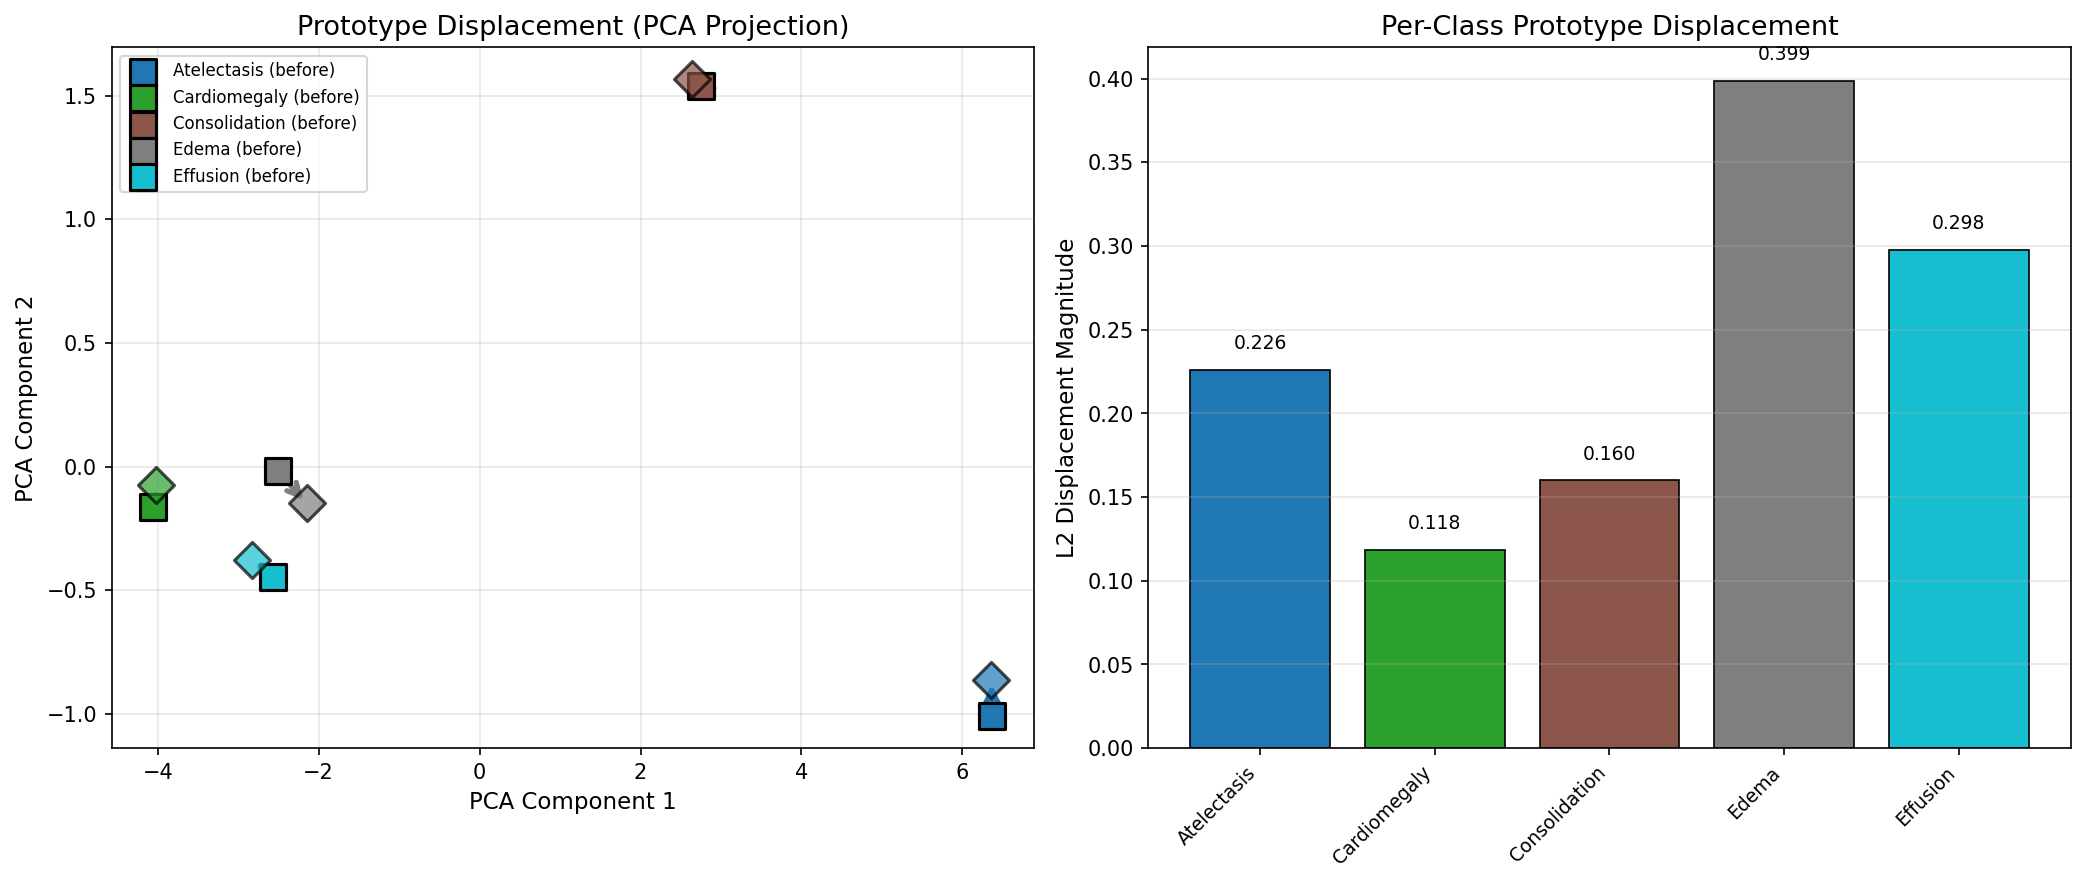
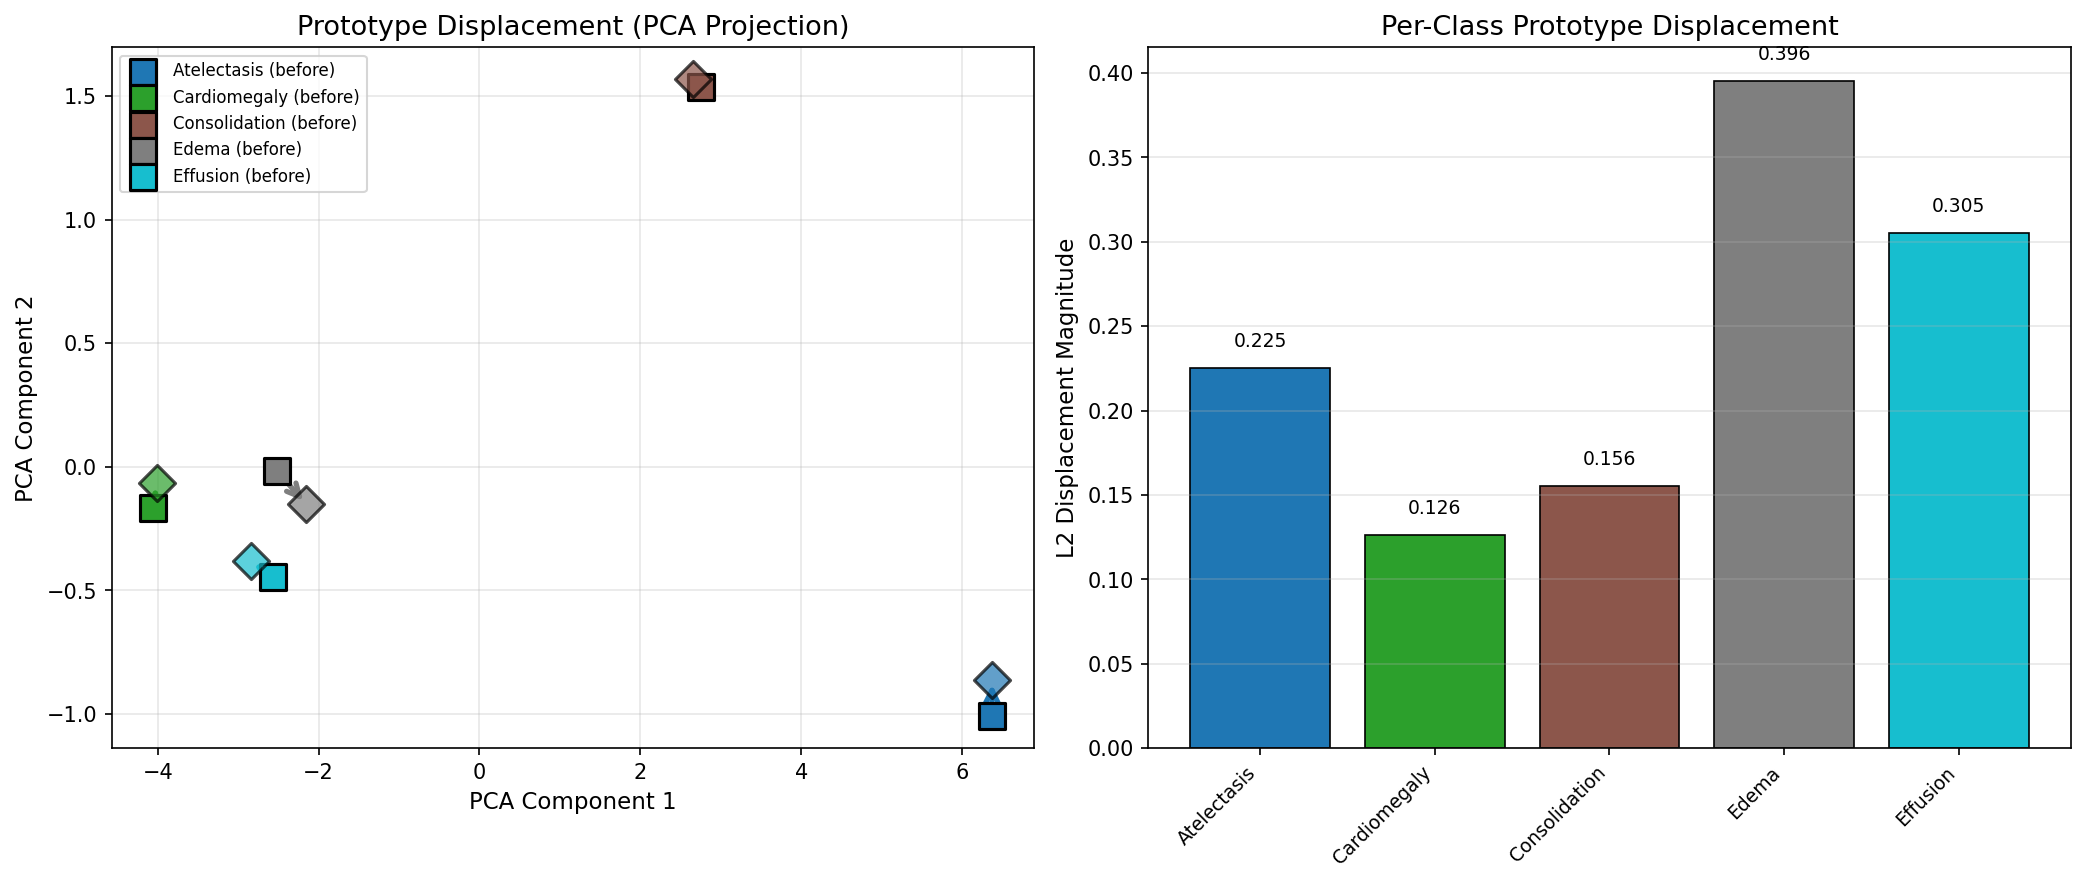
Switch to JS divergence, class-balanced graph propagation, adaptive aug weights
1. Replace symmetric KL with Jensen-Shannon divergence for sub-threshold
   consistency loss - bounded in [0, ln2], avoids gradient explosion
2. Class-balanced graph propagation: minority class support nodes get
   inverse-frequency weights (max_count/count) to boost propagation strength
3. Augmentation-adaptive confidence: weak augmentation view (v1) gets
   weight 0.6, stronger view (v2) gets 0.4 for both confidence and embedding

diff --git a/few_shot_chest_xray.py b/few_shot_chest_xray.py
@@ -496,17 +496,23 @@ class GraphLabelPropagation(nn.Module):
 
         return W
 
-    def propagate(self, embeddings, initial_labels, labeled_mask):
+    def propagate(self, embeddings, initial_labels, labeled_mask, node_weights=None):
         """
         Run label propagation on the graph.
         Args:
             embeddings: (N, D) all node embeddings
             initial_labels: (N, C) soft label matrix
             labeled_mask: (N,) boolean mask for nodes with known labels
+            node_weights: (N,) per-node propagation strength (minority class boost)
         Returns:
             updated_labels: (N, C) propagated soft labels
         """
         W = self.build_knn_graph(embeddings)
+
+        # Apply per-node weights to boost minority class propagation
+        if node_weights is not None:
+            W = W * node_weights.unsqueeze(1)
+            W = (W + W.t()) / 2  # re-symmetrize
 
         D = W.sum(dim=1)
         D_inv_sqrt = torch.diag(1.0 / (torch.sqrt(D) + 1e-8))
@@ -592,8 +598,8 @@ class PrototypicalNetwork(nn.Module):
                                  unlabeled_view1, unlabeled_view2, n_way):
         """
         Semi-supervised forward with dual-view pseudo-labeling and consistency loss.
-        - Samples passing threshold: confidence-weighted pseudo-labels enrich prototypes
-        - Samples below threshold: KL divergence consistency loss between two views
+        - Samples passing threshold: augmentation-adaptive confidence-weighted pseudo-labels
+        - Samples below threshold: Jensen-Shannon divergence consistency loss
         """
         support_embeddings = self.encoder(support_images)
         query_embeddings = self.encoder(query_images)
@@ -604,7 +610,7 @@ class PrototypicalNetwork(nn.Module):
 
         prototypes_before = self.compute_prototypes(support_embeddings, support_labels, n_way)
 
-        # Encode unlabeled views
+        # Encode unlabeled views (view1 = weak aug, view2 = weak aug with different random seed)
         unlabeled_emb_v1 = self.encoder(unlabeled_view1) * channel_weights.unsqueeze(0)
         unlabeled_emb_v2 = self.encoder(unlabeled_view2) * channel_weights.unsqueeze(0)
 
@@ -622,32 +628,36 @@ class PrototypicalNetwork(nn.Module):
                      (max_probs_v1 > threshold) & \
                      (max_probs_v2 > threshold)
 
-        # Consistency loss for sub-threshold samples (KL divergence between two views)
+        # JS divergence for sub-threshold samples (bounded [0, ln2], no gradient explosion)
         sub_threshold_mask = ~agree_mask
         consistency_loss = torch.tensor(0.0, device=support_images.device)
         if sub_threshold_mask.any():
             p = probs_v1[sub_threshold_mask]
             q = probs_v2[sub_threshold_mask]
-            # Symmetric KL: 0.5 * (KL(p||q) + KL(q||p))
-            kl_pq = F.kl_div(q.log(), p, reduction='batchmean')
-            kl_qp = F.kl_div(p.log(), q, reduction='batchmean')
-            consistency_loss = 0.5 * (kl_pq + kl_qp)
+            m = 0.5 * (p + q)
+            js_div = 0.5 * (F.kl_div(m.log(), p, reduction='batchmean') +
+                            F.kl_div(m.log(), q, reduction='batchmean'))
+            consistency_loss = js_div
 
-        # Enrich prototypes with confidence-weighted pseudo-labeled samples
+        # Enrich prototypes with augmentation-adaptive confidence-weighted pseudo-labels
+        # View1 (first augmentation) treated as weaker -> higher confidence weight
+        # Adaptive weight: w_v1 = 0.6, w_v2 = 0.4 (weaker aug view is more reliable)
+        w_v1, w_v2 = 0.6, 0.4
         prototypes_enriched = prototypes_before.clone()
         pseudo_count = torch.zeros(n_way, device=support_images.device)
 
         if agree_mask.any():
             pseudo_labels = preds_v1[agree_mask]
-            pseudo_confidences = (max_probs_v1[agree_mask] + max_probs_v2[agree_mask]) / 2
-            pseudo_embeddings = (unlabeled_emb_v1[agree_mask] + unlabeled_emb_v2[agree_mask]) / 2
+            # Augmentation-adaptive: weight confidence by view reliability
+            pseudo_confidences = w_v1 * max_probs_v1[agree_mask] + w_v2 * max_probs_v2[agree_mask]
+            # Embedding also weighted by augmentation strength
+            pseudo_embeddings = w_v1 * unlabeled_emb_v1[agree_mask] + w_v2 * unlabeled_emb_v2[agree_mask]
 
             for i in range(n_way):
                 cls_mask = pseudo_labels == i
                 if cls_mask.any():
                     n_support = (support_labels == i).sum().float()
                     pseudo_count[i] = cls_mask.sum().float()
-                    # Confidence-weighted: each pseudo sample's weight = its confidence
                     cls_confidences = pseudo_confidences[cls_mask]
                     cls_embeddings = pseudo_embeddings[cls_mask]
                     weighted_pseudo_sum = (cls_embeddings * cls_confidences.unsqueeze(1)).sum(dim=0)
@@ -673,8 +683,8 @@ class PrototypicalNetwork(nn.Module):
                                         unlabeled_view1, unlabeled_view2, n_way):
         """
         Forward with graph-based label propagation.
-        Support nodes are included as known-label anchors; query and unlabeled
-        sets are unknown nodes whose labels are propagated from support.
+        Support nodes are included as known-label anchors with class-balanced weights;
+        query and unlabeled sets are unknown nodes propagated from support.
         """
         support_embeddings = self.encoder(support_images)
         query_embeddings = self.encoder(query_images)
@@ -685,16 +695,31 @@ class PrototypicalNetwork(nn.Module):
 
         prototypes = self.compute_prototypes(support_embeddings, support_labels, n_way)
 
-        # Encode unlabeled (average of two views)
+        # Encode unlabeled (augmentation-adaptive: weak view weighted higher)
         unlabeled_emb_v1 = self.encoder(unlabeled_view1) * channel_weights.unsqueeze(0)
         unlabeled_emb_v2 = self.encoder(unlabeled_view2) * channel_weights.unsqueeze(0)
-        unlabeled_emb = (unlabeled_emb_v1 + unlabeled_emb_v2) / 2
+        unlabeled_emb = 0.6 * unlabeled_emb_v1 + 0.4 * unlabeled_emb_v2
 
         # Build combined node set: [support | query | unlabeled]
         n_support = support_embeddings.size(0)
         n_query = query_embeddings.size(0)
         n_unlabeled = unlabeled_emb.size(0)
         all_embeddings = torch.cat([support_embeddings, query_embeddings, unlabeled_emb], dim=0)
+
+        # Class-balanced node weights: minority classes get higher propagation weight
+        class_counts = torch.zeros(n_way, device=support_images.device)
+        for i in range(n_way):
+            class_counts[i] = (support_labels == i).sum().float()
+        max_count = class_counts.max()
+        # Inverse frequency: weight = max_count / count (minority gets boosted)
+        class_balance_weights = max_count / (class_counts + 1e-8)
+
+        # Assign per-node weights: support nodes get class-balance weight,
+        # query/unlabeled get weight=1.0
+        node_weights = torch.ones(n_support + n_query + n_unlabeled, device=support_images.device)
+        for i in range(n_support):
+            cls_idx = support_labels[i].item()
+            node_weights[i] = class_balance_weights[cls_idx]
 
         # Initial labels: support nodes get one-hot ground-truth labels (known)
         support_onehot = torch.zeros(n_support, n_way, device=support_images.device)
@@ -711,9 +736,9 @@ class PrototypicalNetwork(nn.Module):
         labeled_mask = torch.zeros(n_support + n_query + n_unlabeled, dtype=torch.bool, device=support_images.device)
         labeled_mask[:n_support] = True
 
-        # Graph propagation
+        # Graph propagation with class-balanced node weights
         propagated_labels = self.graph_propagation.propagate(
-            all_embeddings, initial_labels, labeled_mask
+            all_embeddings, initial_labels, labeled_mask, node_weights=node_weights
         )
 
         # Use propagated labels on unlabeled nodes to update prototypes (confidence-weighted)
@@ -731,7 +756,6 @@ class PrototypicalNetwork(nn.Module):
                 cls_mask = confident_labels == i
                 if cls_mask.any():
                     n_sup = (support_labels == i).sum().float()
-                    # Confidence-weighted: weight = prediction confidence
                     cls_confidences = confident_probs[cls_mask]
                     cls_embeddings = confident_emb[cls_mask]
                     weighted_sum = (cls_embeddings * cls_confidences.unsqueeze(1)).sum(dim=0)
@@ -745,7 +769,6 @@ class PrototypicalNetwork(nn.Module):
         query_propagated = propagated_labels[n_support:n_support + n_query]
         distances = self.distance(query_embeddings, prototypes_updated)
         dist_logits = -distances
-        # Combine distance-based logits with propagated soft labels
         combined_logits = dist_logits + query_propagated
         return combined_logits
 
@@ -1341,7 +1364,7 @@ def main():
     print(f"  Semi-supervised accuracy: {semi_acc * 100:.2f}% ± {semi_ci * 100:.2f}%")
     print(f"  Pseudo-labels selected: {pseudo_stats['n_selected']}/{pseudo_stats['n_total']} "
           f"(rate: {pseudo_stats['selection_rate']*100:.1f}%)")
-    print(f"  Consistency loss (KL, sub-threshold): {pseudo_stats['avg_consistency_loss']:.4f}")
+    print(f"  Consistency loss (JS divergence, sub-threshold): {pseudo_stats['avg_consistency_loss']:.4f}")
     print()
 
     # [6/7] Graph Propagation Evaluation
